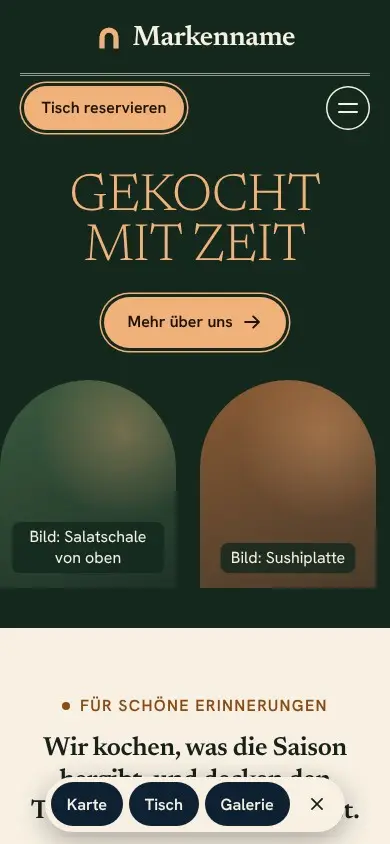
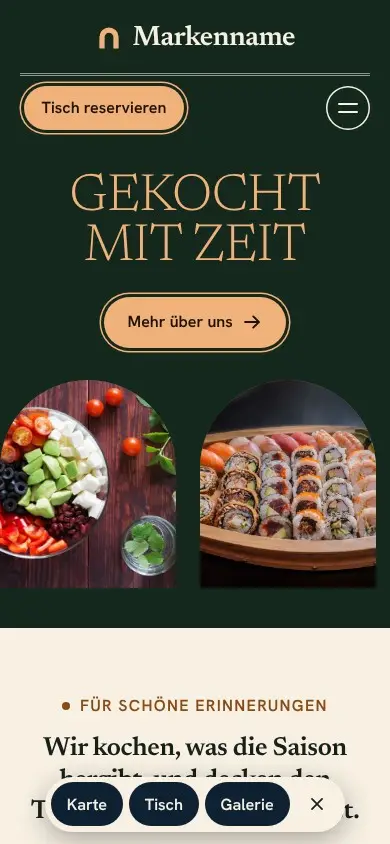
Bibliothek t34: Beispielfotos (Unsplash) eingebaut, Vorschaubilder neu erzeugt
Claude-Session: https://claude.ai/code/session_01DoGuL1bwF3ewggMgZ4Cpvd

Changed region(s): [[0.4923, 0.4313, 0.9846, 0.7085], [0.0, 0.4313, 0.4615, 0.7085]]

diff --git a/skills/webdesign-conversion/assets/vorlagen/bibliothek/t34/v2.html b/skills/webdesign-conversion/assets/vorlagen/bibliothek/t34/v2.html
@@ -56,7 +56,7 @@
 <main id="inhalt">
 <section class="held2" id="top" aria-labelledby="h-held">
   <div class="held2__bilder">
-    <div class="bild bogen bild--b" data-platzhalter="Bild: Gedeckter Tisch mit Karaffe" aria-hidden="true" data-parallax="0.05"></div>
+    <div class="bild bogen bild--b"><img src="bilder/gedeckter-tisch-mit-blumen.webp" width="1000" height="667" alt="Gedeckter Tisch mit Blumen und Gläsern" loading="lazy" decoding="async"></div>
     <div class="bild bogen bild--c" data-platzhalter="Bild: Frau lacht beim Essen" aria-hidden="true" data-parallax="0.09"></div>
   </div>
   <div class="wrap">
@@ -67,7 +67,7 @@
 
 <section class="ueber2 dunkel dunkel--blau" id="ueber" aria-labelledby="h-ueber">
   <div class="wrap ueber2__raster">
-    <div class="bild ueber2__bild bild--d" data-platzhalter="Bild: Langer Tisch mit Tellern und Servietten" aria-hidden="true" data-zeig="links"></div>
+    <div class="bild ueber2__bild bild--d" aria-hidden="true" data-zeig="links"><img src="bilder/lange-tafel-mit-kerzen.webp" width="1600" height="1067" alt="Lange Tafel mit Tellern, Servietten und Kerzen" loading="lazy" decoding="async"></div>
     <div>
       <h2 id="h-ueber" data-zeig>Ein Essen, an das du dich gern erinnerst</h2>
       <p data-zeig>Beispieltext von zwei Zeilen: Wir kochen mit Produkten aus der Region, nehmen uns Zeit für jeden Gang und sorgen dafür, dass du dich am Tisch wohlfühlst.</p>
@@ -88,12 +88,12 @@
       <a class="knopf knopf--dunkel" href="#karte" data-zeig>Ganze Karte <svg width="20" height="20" aria-hidden="true" focusable="false"><use href="#i-arrow-right"/></svg></a>
     </div>
     <ul class="liste2" data-staffel data-beispiel>
-      <li class="posten" data-zeig><div class="bild bild--a" data-platzhalter="Bild: Cocktail mit Orange" aria-hidden="true"></div><div><div class="posten__kopf"><h3>Italienischer Cocktail</h3><span class="posten__preis">8,50 €</span></div><p>alkoholfrei, mit Zitrus</p></div></li>
-      <li class="posten" data-zeig><div class="bild bild--b" data-platzhalter="Bild: Saftglas mit Früchten" aria-hidden="true"></div><div><div class="posten__kopf"><h3>Erdbeer-Orangen-Saft</h3><span class="posten__preis">5,50 €</span></div><p>frisch gepresst</p></div></li>
-      <li class="posten" data-zeig><div class="bild bild--c" data-platzhalter="Bild: Glas mit Gurke und Minze" aria-hidden="true"></div><div><div class="posten__kopf"><h3>Gurke und Kräuter</h3><span class="posten__preis">4,50 €</span></div><p>Detox-Getränk</p></div></li>
-      <li class="posten" data-zeig><div class="bild bild--d" data-platzhalter="Bild: Teller mit Hackbällchen" aria-hidden="true"></div><div><div class="posten__kopf"><h3>Hackbällchen in Sauce</h3><span class="posten__preis">14,50 €</span></div><p>mit Kartoffelstampf</p></div></li>
-      <li class="posten" data-zeig><div class="bild bild--e" data-platzhalter="Bild: Dessert mit Erdbeeren" aria-hidden="true"></div><div><div class="posten__kopf"><h3>Erdbeeren mit Sahne</h3><span class="posten__preis">7,00 €</span></div><p>im Glas, saisonal</p></div></li>
-      <li class="posten" data-zeig><div class="bild bild--f" data-platzhalter="Bild: Kuchenstück mit Schokolade" aria-hidden="true"></div><div><div class="posten__kopf"><h3>Schokoladenkuchen</h3><span class="posten__preis">7,50 €</span></div><p>warm, mit Eis</p></div></li>
+      <li class="posten" data-zeig><div class="bild bild--a"><img src="bilder/orangensaft-im-glas.webp" width="600" height="400" alt="Glas mit Orangensaft und Orangenscheibe" loading="lazy" decoding="async"></div><div><div class="posten__kopf"><h3>Italienischer Cocktail</h3><span class="posten__preis">8,50 €</span></div><p>alkoholfrei, mit Zitrus</p></div></li>
+      <li class="posten" data-zeig><div class="bild bild--b"><img src="bilder/orangensaft-auf-dem-tisch.webp" width="600" height="450" alt="Glas Orangensaft auf einem Holzuntersetzer" loading="lazy" decoding="async"></div><div><div class="posten__kopf"><h3>Erdbeer-Orangen-Saft</h3><span class="posten__preis">5,50 €</span></div><p>frisch gepresst</p></div></li>
+      <li class="posten" data-zeig><div class="bild bild--c"><img src="bilder/glas-mit-gurkenscheiben.webp" width="600" height="400" alt="Glas mit Gurkenscheiben und Wasser" loading="lazy" decoding="async"></div><div><div class="posten__kopf"><h3>Gurke und Kräuter</h3><span class="posten__preis">4,50 €</span></div><p>Detox-Getränk</p></div></li>
+      <li class="posten" data-zeig><div class="bild bild--d"><img src="bilder/haeckchen-mit-sauce.webp" width="600" height="400" alt="Gebratene Hackbällchen mit Sauce" loading="lazy" decoding="async"></div><div><div class="posten__kopf"><h3>Hackbällchen in Sauce</h3><span class="posten__preis">14,50 €</span></div><p>mit Kartoffelstampf</p></div></li>
+      <li class="posten" data-zeig><div class="bild bild--e"><img src="bilder/erdbeeren-mit-sahne.webp" width="600" height="400" alt="Erdbeeren mit Sahne auf einem Teller" loading="lazy" decoding="async"></div><div><div class="posten__kopf"><h3>Erdbeeren mit Sahne</h3><span class="posten__preis">7,00 €</span></div><p>im Glas, saisonal</p></div></li>
+      <li class="posten" data-zeig><div class="bild bild--f"><img src="bilder/schokoladenkuchen-stueck.webp" width="600" height="400" alt="Stück Schokoladenkuchen auf einem Teller" loading="lazy" decoding="async"></div><div><div class="posten__kopf"><h3>Schokoladenkuchen</h3><span class="posten__preis">7,50 €</span></div><p>warm, mit Eis</p></div></li>
     </ul>
   </div>
 </section>
@@ -108,7 +108,7 @@
         <p>Telefon: <a href="tel:+490000000000">+49 (0) 000 000 000</a></p>
         <p>Adresse: Beispielstraße 12, 12345 Beispielstadt</p>
       </div>
-      <div class="bild bogen feier__bild bild--d" data-platzhalter="Bild: Soße wird über Pasta gegossen" aria-hidden="true" data-zeig="skala"></div>
+      <div class="bild bogen feier__bild bild--d" aria-hidden="true" data-zeig="skala"><img src="bilder/pasta-auf-rotem-grund.webp" width="1000" height="667" alt="Pasta mit Basilikum auf einem weißen Teller" loading="lazy" decoding="async"></div>
       <div class="feier__spalte" data-zeig>
         <h3>Öffnungszeiten</h3>
         <p>Montag bis Samstag: 18 bis 23 Uhr</p>
@@ -125,10 +125,10 @@
     <h2 id="h-ver" data-zeig>Geplante Veranstaltungen</h2>
     <p class="veranstaltungen__text" data-zeig>Beispieltext von zwei Zeilen: Was in den nächsten Wochen bei dir im Haus stattfindet, steht hier mit Datum und Zeit.</p>
     <ul class="termine" data-staffel data-beispiel>
-      <li class="termin" data-zeig><div class="bild bild--a" data-platzhalter="Bild: Zwei Gläser stoßen an" aria-hidden="true"></div><h3>Weinabend am Mittwoch</h3><p>Mittwoch, 6. Dezember<br>Beginn 18 Uhr</p></li>
+      <li class="termin" data-zeig><div class="bild bild--a"><img src="bilder/anstossen-mit-rotwein.webp" width="800" height="533" alt="Gäste stoßen mit Rotwein an" loading="lazy" decoding="async"></div><h3>Weinabend am Mittwoch</h3><p>Mittwoch, 6. Dezember<br>Beginn 18 Uhr</p></li>
       <li class="termin" data-zeig><div class="bild bild--b" data-platzhalter="Bild: Frau fotografiert ihr Essen" aria-hidden="true"></div><h3>Erntefest</h3><p>Mittwoch, 10. Dezember<br>Samstag, 10 bis 14 Uhr</p></li>
       <li class="termin" data-zeig><div class="bild bild--c" data-platzhalter="Bild: Sängerin im Scheinwerferlicht" aria-hidden="true"></div><h3>Livemusik am Abend</h3><p>Sonntag, 17. Dezember<br>Beginn 19 Uhr</p></li>
-      <li class="termin" data-zeig><div class="bild bild--d" data-platzhalter="Bild: Tisch mit Salaten" aria-hidden="true"></div><h3>Themenessen</h3><p>Mittwoch, 20. Dezember<br>Beginn 20 Uhr</p></li>
+      <li class="termin" data-zeig><div class="bild bild--d"><img src="bilder/schalen-mit-salat-und-saucen.webp" width="1000" height="693" alt="Schalen mit Salat und Zutaten auf dem Tisch" loading="lazy" decoding="async"></div><h3>Themenessen</h3><p>Mittwoch, 20. Dezember<br>Beginn 20 Uhr</p></li>
     </ul>
     <div class="partner">
       <p data-zeig>Unsere Partner aus der Region <span data-beispiel>(Beispiellogos)</span></p>
@@ -152,10 +152,10 @@
       <p data-zeig><a class="knopf" href="#kontakt">Alle Beiträge <svg width="20" height="20" aria-hidden="true" focusable="false"><use href="#i-arrow-right"/></svg></a></p>
     </div>
     <ul class="beitraege" data-staffel>
-      <li class="beitrag" data-zeig><span class="beitrag__tag">Essen</span><div class="beitrag__kopf"><h3>Tipps für das nächste Lieblingsrestaurant</h3><a class="pfeil-rund" href="#kontakt" aria-label="Beitrag lesen: Tipps für das nächste Lieblingsrestaurant"><svg width="18" height="18" aria-hidden="true" focusable="false"><use href="#i-arrow-right"/></svg></a></div><div class="bild bogen bild--a" data-platzhalter="Bild: Schalen mit Tomaten und Bohnen" aria-hidden="true"></div></li>
-      <li class="beitrag" data-zeig><span class="beitrag__tag">Tipps</span><div class="beitrag__kopf"><h3>Rezepte, Bewertungen und Trends beim Essen</h3><a class="pfeil-rund" href="#kontakt" aria-label="Beitrag lesen: Rezepte, Bewertungen und Trends beim Essen"><svg width="18" height="18" aria-hidden="true" focusable="false"><use href="#i-arrow-right"/></svg></a></div><div class="bild bogen bild--b" data-platzhalter="Bild: Gastraum mit hellen Stühlen" aria-hidden="true"></div></li>
-      <li class="beitrag" data-zeig><span class="beitrag__tag">Küche</span><div class="beitrag__kopf"><h3>Warum ein frisches Gericht gesund ist</h3><a class="pfeil-rund" href="#kontakt" aria-label="Beitrag lesen: Warum ein frisches Gericht gesund ist"><svg width="18" height="18" aria-hidden="true" focusable="false"><use href="#i-arrow-right"/></svg></a></div><div class="bild bogen bild--c" data-platzhalter="Bild: Tortilla mit buntem Salat" aria-hidden="true"></div></li>
-      <li class="beitrag" data-zeig><span class="beitrag__tag">Feiern</span><div class="beitrag__kopf"><h3>Wie viel Essen braucht ein Fest pro Person?</h3><a class="pfeil-rund" href="#kontakt" aria-label="Beitrag lesen: Wie viel Essen braucht ein Fest pro Person?"><svg width="18" height="18" aria-hidden="true" focusable="false"><use href="#i-arrow-right"/></svg></a></div><div class="bild bogen bild--d" data-platzhalter="Bild: Gedeckte Tafel mit Blumen" aria-hidden="true"></div></li>
+      <li class="beitrag" data-zeig><span class="beitrag__tag">Essen</span><div class="beitrag__kopf"><h3>Tipps für das nächste Lieblingsrestaurant</h3><a class="pfeil-rund" href="#kontakt" aria-label="Beitrag lesen: Tipps für das nächste Lieblingsrestaurant"><svg width="18" height="18" aria-hidden="true" focusable="false"><use href="#i-arrow-right"/></svg></a></div><div class="bild bogen bild--a"><img src="bilder/schale-mit-bohnen.webp" width="800" height="533" alt="Holzschale mit Bohnen" loading="lazy" decoding="async"></div></li>
+      <li class="beitrag" data-zeig><span class="beitrag__tag">Tipps</span><div class="beitrag__kopf"><h3>Rezepte, Bewertungen und Trends beim Essen</h3><a class="pfeil-rund" href="#kontakt" aria-label="Beitrag lesen: Rezepte, Bewertungen und Trends beim Essen"><svg width="18" height="18" aria-hidden="true" focusable="false"><use href="#i-arrow-right"/></svg></a></div><div class="bild bogen bild--b"><img src="bilder/gastraum-mit-hellen-stuehlen.webp" width="800" height="533" alt="Gastraum mit runden Tischen und hellen Stühlen" loading="lazy" decoding="async"></div></li>
+      <li class="beitrag" data-zeig><span class="beitrag__tag">Küche</span><div class="beitrag__kopf"><h3>Warum ein frisches Gericht gesund ist</h3><a class="pfeil-rund" href="#kontakt" aria-label="Beitrag lesen: Warum ein frisches Gericht gesund ist"><svg width="18" height="18" aria-hidden="true" focusable="false"><use href="#i-arrow-right"/></svg></a></div><div class="bild bogen bild--c"><img src="bilder/salat-mit-gurke-und-tomate.webp" width="800" height="600" alt="Salat mit Gurke und Tomate" loading="lazy" decoding="async"></div></li>
+      <li class="beitrag" data-zeig><span class="beitrag__tag">Feiern</span><div class="beitrag__kopf"><h3>Wie viel Essen braucht ein Fest pro Person?</h3><a class="pfeil-rund" href="#kontakt" aria-label="Beitrag lesen: Wie viel Essen braucht ein Fest pro Person?"><svg width="18" height="18" aria-hidden="true" focusable="false"><use href="#i-arrow-right"/></svg></a></div><div class="bild bogen bild--d"><img src="bilder/tafel-mit-tulpen-und-glaesern.webp" width="800" height="533" alt="Festlich gedeckte Tafel mit Tulpen und Gläsern" loading="lazy" decoding="async"></div></li>
     </ul>
   </div>
 </section>
@@ -165,12 +165,12 @@
     <h2 id="h-insta" data-zeig>Folge uns</h2>
   </div>
   <ul class="insta__raster" data-staffel>
-    <li data-zeig><div class="bild bild--a" data-platzhalter="Bild: Kuchen mit Heidelbeeren" aria-hidden="true"></div></li>
-    <li data-zeig><div class="bild bild--b" data-platzhalter="Bild: Käse und Brot" aria-hidden="true"></div></li>
-    <li data-zeig><div class="bild bild--c" data-platzhalter="Bild: Gedeckter Teller" aria-hidden="true"></div></li>
-    <li data-zeig><div class="bild bild--d" data-platzhalter="Bild: Dessert im Glas" aria-hidden="true"></div></li>
-    <li data-zeig><div class="bild bild--e" data-platzhalter="Bild: Schmortopf mit Gemüse" aria-hidden="true"></div></li>
-    <li data-zeig><div class="bild bild--f" data-platzhalter="Bild: Glas mit Gurke" aria-hidden="true"></div></li>
+    <li data-zeig><div class="bild bild--a"><img src="bilder/beerentorte-auf-teller.webp" width="800" height="548" alt="Torte mit Erdbeeren und Heidelbeeren" loading="lazy" decoding="async"></div></li>
+    <li data-zeig><div class="bild bild--b"><img src="bilder/kaese-und-brot-platte.webp" width="800" height="532" alt="Käseplatte mit Brot" loading="lazy" decoding="async"></div></li>
+    <li data-zeig><div class="bild bild--c"><img src="bilder/gedeckter-teller-hell.webp" width="800" height="622" alt="Gedeckter Teller mit Besteck auf hellem Tisch" loading="lazy" decoding="async"></div></li>
+    <li data-zeig><div class="bild bild--d"><img src="bilder/dessert-im-glas-holz.webp" width="800" height="450" alt="Dessert mit Keksstücken im Glas" loading="lazy" decoding="async"></div></li>
+    <li data-zeig><div class="bild bild--e"><img src="bilder/frittierte-baellchen-in-schale.webp" width="800" height="533" alt="Frittierte Bällchen in einer Schale" loading="lazy" decoding="async"></div></li>
+    <li data-zeig><div class="bild bild--f"><img src="bilder/glas-mit-gurke-und-eis.webp" width="800" height="533" alt="Glas mit Gurke und Eis von oben" loading="lazy" decoding="async"></div></li>
   </ul>
 </section>
 </main>

diff --git a/skills/webdesign-conversion/assets/vorlagen/bibliothek/t34/index.html b/skills/webdesign-conversion/assets/vorlagen/bibliothek/t34/index.html
@@ -60,18 +60,18 @@
   </div>
   <div class="band bogenband" aria-label="Gerichte aus unserer Küche">
     <div class="band__spur">
-      <div class="bild bogen bild--a" data-platzhalter="Bild: Salatschale von oben" aria-hidden="true"></div>
-      <div class="bild bogen bild--b" data-platzhalter="Bild: Sushiplatte" aria-hidden="true"></div>
-      <div class="bild bogen bild--c" data-platzhalter="Bild: Pizza mit Kräutern" aria-hidden="true"></div>
-      <div class="bild bogen bild--d" data-platzhalter="Bild: Tarte mit Beeren" aria-hidden="true"></div>
-      <div class="bild bogen bild--e" data-platzhalter="Bild: Cocktail im Glas" aria-hidden="true"></div>
+      <div class="bild bogen bild--a"><img src="bilder/salat-holzschale-von-oben.webp" width="800" height="534" alt="Salat mit Tomaten, Avocado und Oliven in einer Schale auf dunklem Holz" loading="lazy" decoding="async"></div>
+      <div class="bild bogen bild--b"><img src="bilder/sushi-im-holzboot.webp" width="800" height="640" alt="Sushi in einem Holzboot" loading="lazy" decoding="async"></div>
+      <div class="bild bogen bild--c"><img src="bilder/pizza-mit-pilzen-und-basilikum.webp" width="800" height="534" alt="Pizza mit Pilzen und frischem Basilikum" loading="lazy" decoding="async"></div>
+      <div class="bild bogen bild--d"><img src="bilder/tartelettes-mit-beeren.webp" width="800" height="600" alt="Tartelettes mit frischen Beeren" loading="lazy" decoding="async"></div>
+      <div class="bild bogen bild--e"><img src="bilder/zwei-getraenke-im-glas.webp" width="800" height="600" alt="Zwei Getränke in Stielgläsern auf einem Marmortisch" loading="lazy" decoding="async"></div>
     </div>
     <div class="band__spur" aria-hidden="true">
-      <div class="bild bogen bild--a" data-platzhalter="Bild: Salatschale von oben" aria-hidden="true"></div>
-      <div class="bild bogen bild--b" data-platzhalter="Bild: Sushiplatte" aria-hidden="true"></div>
-      <div class="bild bogen bild--c" data-platzhalter="Bild: Pizza mit Kräutern" aria-hidden="true"></div>
-      <div class="bild bogen bild--d" data-platzhalter="Bild: Tarte mit Beeren" aria-hidden="true"></div>
-      <div class="bild bogen bild--e" data-platzhalter="Bild: Cocktail im Glas" aria-hidden="true"></div>
+      <div class="bild bogen bild--a" aria-hidden="true"><img src="bilder/salat-holzschale-von-oben.webp" width="800" height="534" alt="" loading="lazy" decoding="async"></div>
+      <div class="bild bogen bild--b" aria-hidden="true"><img src="bilder/sushi-im-holzboot.webp" width="800" height="640" alt="" loading="lazy" decoding="async"></div>
+      <div class="bild bogen bild--c" aria-hidden="true"><img src="bilder/pizza-mit-pilzen-und-basilikum.webp" width="800" height="534" alt="" loading="lazy" decoding="async"></div>
+      <div class="bild bogen bild--d" aria-hidden="true"><img src="bilder/tartelettes-mit-beeren.webp" width="800" height="600" alt="" loading="lazy" decoding="async"></div>
+      <div class="bild bogen bild--e" aria-hidden="true"><img src="bilder/zwei-getraenke-im-glas.webp" width="800" height="600" alt="" loading="lazy" decoding="async"></div>
     </div>
   </div>
 </section>
@@ -82,19 +82,19 @@
     <h2 id="h-ueber" data-zeig>Wir kochen, was die Saison hergibt, und decken den Tisch so, dass du gern bleibst.</h2>
     <div class="ueber__raster" data-staffel>
       <article class="vorteil" data-zeig>
-        <div class="bild bogen bild--b" data-platzhalter="Bild: Tisch mit Gläsern im Abendlicht" aria-hidden="true"></div>
+        <div class="bild bogen bild--b"><img src="bilder/tisch-mit-weinglaesern-abendlicht.webp" width="800" height="534" alt="Gedeckter Tisch mit Weingläsern und Kerzen im Abendlicht" loading="lazy" decoding="async"></div>
         <span class="vorteil__zeichen" aria-hidden="true"><svg width="34" height="34" aria-hidden="true" focusable="false"><use href="#i-coffee"/></svg></span>
         <h3>Feines Essen im Raum</h3>
         <p>Beispieltext von zwei Zeilen, der später durch einen echten Satz zum Haus ersetzt wird.</p>
       </article>
       <article class="vorteil" data-zeig>
-        <div class="bild bogen bild--c" data-platzhalter="Bild: Gedeckter Tisch mit Karaffe und Gläsern" aria-hidden="true"></div>
+        <div class="bild bogen bild--c"><img src="bilder/kerzenlicht-tisch-mit-wein.webp" width="800" height="538" alt="Zwei Gedecke mit Weingläsern und Kerzenlicht" loading="lazy" decoding="async"></div>
         <span class="vorteil__zeichen" aria-hidden="true"><svg width="34" height="34" aria-hidden="true" focusable="false"><use href="#i-heart"/></svg></span>
         <h3>Aromen, die bleiben</h3>
         <p>Beispieltext von zwei Zeilen, der später durch einen echten Satz zum Haus ersetzt wird.</p>
       </article>
       <article class="vorteil" data-zeig>
-        <div class="bild bogen bild--d" data-platzhalter="Bild: Paar am Tisch mit Wein" aria-hidden="true"></div>
+        <div class="bild bogen bild--d"><img src="bilder/haende-mit-weinglaesern.webp" width="800" height="534" alt="Hände halten Weingläser über dem Tisch" loading="lazy" decoding="async"></div>
         <span class="vorteil__zeichen" aria-hidden="true"><svg width="34" height="34" aria-hidden="true" focusable="false"><use href="#i-leaf"/></svg></span>
         <h3>Gäste, die sich Zeit nehmen</h3>
         <p>Beispieltext von zwei Zeilen, der später durch einen echten Satz zum Haus ersetzt wird.</p>
@@ -112,35 +112,35 @@
     <ul class="gerichte" data-staffel data-beispiel>
       <li class="gericht" data-zeig>
         <div class="gericht__kopf"><div><h3>Ofenfrisches Fladenbrot</h3><p class="gericht__preis">6,50 €</p></div><a class="pfeil-rund" href="#tisch" aria-label="Ofenfrisches Fladenbrot: dazu einen Tisch reservieren"><svg width="18" height="18" aria-hidden="true" focusable="false"><use href="#i-arrow-right"/></svg></a></div>
-        <div class="bild bogen bild--a" data-platzhalter="Bild: Fladenbrot mit Kräutern" aria-hidden="true"></div>
+        <div class="bild bogen bild--a"><img src="bilder/fladenbrot-mit-zitrone.webp" width="800" height="534" alt="Fladenbrot mit Zitronenscheiben und Kräutern" loading="lazy" decoding="async"></div>
       </li>
       <li class="gericht" data-zeig>
         <div class="gericht__kopf"><div><h3>Bunter Linsensalat</h3><p class="gericht__preis">12,00 €</p></div><a class="pfeil-rund" href="#tisch" aria-label="Bunter Linsensalat: dazu einen Tisch reservieren"><svg width="18" height="18" aria-hidden="true" focusable="false"><use href="#i-arrow-right"/></svg></a></div>
-        <div class="bild bogen bild--b" data-platzhalter="Bild: Linsensalat in der Schale" aria-hidden="true"></div>
+        <div class="bild bogen bild--b"><img src="bilder/schale-mit-linsen-und-gemuese.webp" width="800" height="534" alt="Schale mit Salat aus Kichererbsen und Gemüse" loading="lazy" decoding="async"></div>
       </li>
       <li class="gericht" data-zeig>
         <div class="gericht__kopf"><div><h3>Pasta der Woche</h3><p class="gericht__preis">14,50 €</p></div><a class="pfeil-rund" href="#tisch" aria-label="Pasta der Woche: dazu einen Tisch reservieren"><svg width="18" height="18" aria-hidden="true" focusable="false"><use href="#i-arrow-right"/></svg></a></div>
-        <div class="bild bogen bild--c" data-platzhalter="Bild: Pasta mit Gemüse" aria-hidden="true"></div>
+        <div class="bild bogen bild--c"><img src="bilder/pasta-mit-oliven-und-tomaten.webp" width="800" height="534" alt="Pasta mit Oliven und Tomatensauce auf einem weißen Teller" loading="lazy" decoding="async"></div>
       </li>
       <li class="gericht" data-zeig>
         <div class="gericht__kopf"><div><h3>Gemüsepfanne aus dem Ofen</h3><p class="gericht__preis">13,00 €</p></div><a class="pfeil-rund" href="#tisch" aria-label="Gemüsepfanne aus dem Ofen: dazu einen Tisch reservieren"><svg width="18" height="18" aria-hidden="true" focusable="false"><use href="#i-arrow-right"/></svg></a></div>
-        <div class="bild bogen bild--d" data-platzhalter="Bild: Ofengemüse auf dem Blech" aria-hidden="true"></div>
+        <div class="bild bogen bild--d"><img src="bilder/ofenkuerbis-auf-dem-blech.webp" width="800" height="450" alt="Im Ofen gebackener Kürbis auf dem Blech" loading="lazy" decoding="async"></div>
       </li>
       <li class="gericht" data-zeig>
         <div class="gericht__kopf"><div><h3>Hausgemachte Quiche</h3><p class="gericht__preis">9,50 €</p></div><a class="pfeil-rund" href="#tisch" aria-label="Hausgemachte Quiche: dazu einen Tisch reservieren"><svg width="18" height="18" aria-hidden="true" focusable="false"><use href="#i-arrow-right"/></svg></a></div>
-        <div class="bild bogen bild--e" data-platzhalter="Bild: Quiche mit Salat" aria-hidden="true"></div>
+        <div class="bild bogen bild--e"><img src="bilder/salat-in-der-holzschale.webp" width="800" height="600" alt="Bunter Salat in einer Holzschale" loading="lazy" decoding="async"></div>
       </li>
       <li class="gericht" data-zeig>
         <div class="gericht__kopf"><div><h3>Gebratener Lachs</h3><p class="gericht__preis">19,00 €</p></div><a class="pfeil-rund" href="#tisch" aria-label="Gebratener Lachs: dazu einen Tisch reservieren"><svg width="18" height="18" aria-hidden="true" focusable="false"><use href="#i-arrow-right"/></svg></a></div>
-        <div class="bild bogen bild--f" data-platzhalter="Bild: Lachs mit Kräutern" aria-hidden="true"></div>
+        <div class="bild bogen bild--f"><img src="bilder/lachs-auf-dem-teller.webp" width="800" height="534" alt="Gebratener Lachs mit Beilage auf einem weißen Teller" loading="lazy" decoding="async"></div>
       </li>
       <li class="gericht" data-zeig>
         <div class="gericht__kopf"><div><h3>Kürbissuppe mit Kernen</h3><p class="gericht__preis">8,50 €</p></div><a class="pfeil-rund" href="#tisch" aria-label="Kürbissuppe mit Kernen: dazu einen Tisch reservieren"><svg width="18" height="18" aria-hidden="true" focusable="false"><use href="#i-arrow-right"/></svg></a></div>
-        <div class="bild bogen bild--a" data-platzhalter="Bild: Suppe in der Schale" aria-hidden="true"></div>
+        <div class="bild bogen bild--a"><img src="bilder/kuerbissuppe-in-der-schale.webp" width="800" height="506" alt="Kürbissuppe in einer Schale auf einem Holztisch" loading="lazy" decoding="async"></div>
       </li>
       <li class="gericht" data-zeig>
         <div class="gericht__kopf"><div><h3>Beerentarte vom Blech</h3><p class="gericht__preis">6,00 €</p></div><a class="pfeil-rund" href="#tisch" aria-label="Beerentarte vom Blech: dazu einen Tisch reservieren"><svg width="18" height="18" aria-hidden="true" focusable="false"><use href="#i-arrow-right"/></svg></a></div>
-        <div class="bild bogen bild--b" data-platzhalter="Bild: Tarte mit Beeren" aria-hidden="true"></div>
+        <div class="bild bogen bild--b"><img src="bilder/beerentarte-in-der-vitrine.webp" width="800" height="450" alt="Beerentartes in der Vitrine" loading="lazy" decoding="async"></div>
       </li>
     </ul>
   </div>
@@ -162,7 +162,7 @@
           <p class="formular__meldung" data-formular-meldung role="status" hidden>Beispielformular: In dieser Vorlage wird nichts gesendet. Der Versand wird im Projekt angebunden.</p>
         </form>
       </div>
-      <div class="bild bogen tisch__bild bild--d" data-platzhalter="Bild: Olivenöl über einer Pizza, Hand mit Kännchen" role="img" aria-label="Platzhalter für ein Foto: Olivenöl über einer Pizza, Hand mit Kännchen" data-zeig="skala"></div>
+      <div class="bild bogen tisch__bild bild--d" data-zeig="skala"><img src="bilder/olivenoel-kraeuter-marmor.webp" width="800" height="534" alt="Olivenöl und frische Kräuter auf einer Marmorplatte" loading="lazy" decoding="async" style="object-position:30% center"></div>
       <div class="zeiten" data-zeig data-beispiel>
         <div><h3>Öffnungszeiten</h3><p>Mo bis Do: 10 bis 21 Uhr<br>Fr bis So: 9 bis 23 Uhr</p></div>
         <div><h3>So findest du uns</h3><p>Beispielstraße 12<br>12345 Beispielstadt</p></div>
@@ -176,11 +176,11 @@
   <h2 id="h-galerie" data-zeig>Unsere Galerie</h2>
   <div class="spur-gruppe" data-spur-gruppe>
     <div class="spur" data-spur tabindex="0" role="group" aria-label="Bilder aus dem Haus, horizontal wischbar">
-      <div class="bild bild--a" data-platzhalter="Bild: Cocktail und Teller auf Holz" aria-hidden="true"></div>
-      <div class="bild bild--b" data-platzhalter="Bild: Paar im Gespräch am Tisch" aria-hidden="true"></div>
-      <div class="bild bild--c" data-platzhalter="Bild: Käse und Brot auf Kisten" aria-hidden="true"></div>
-      <div class="bild bild--d" data-platzhalter="Bild: Dessert im Glas" aria-hidden="true"></div>
-      <div class="bild bild--e" data-platzhalter="Bild: Schale mit Gemüse" aria-hidden="true"></div>
+      <div class="bild bild--a"><img src="bilder/cocktail-an-der-bar.webp" width="800" height="533" alt="Cocktailglas auf dem Tresen einer Bar" loading="lazy" decoding="async"></div>
+      <div class="bild bild--b"><img src="bilder/anstossen-mit-bierglaesern.webp" width="800" height="532" alt="Gläser stoßen am Tisch aneinander" loading="lazy" decoding="async"></div>
+      <div class="bild bild--c"><img src="bilder/kaese-und-brot-auf-holzbrett.webp" width="800" height="533" alt="Käse und Brot auf einem Holzbrett" loading="lazy" decoding="async"></div>
+      <div class="bild bild--d"><img src="bilder/dessert-im-glas-dunkel.webp" width="800" height="531" alt="Dessert im Glas auf dunklem Untergrund" loading="lazy" decoding="async"></div>
+      <div class="bild bild--e"><img src="bilder/tomaten-und-gurken-in-holzschale.webp" width="800" height="534" alt="Tomaten und Gurken in einer Holzschale" loading="lazy" decoding="async"></div>
     </div>
     <div class="spur-steuerung" data-spur-steuerung>
       <button class="pfeil-rund" type="button" data-spur-knopf="zurueck" aria-label="Vorheriges Bild"><svg width="18" height="18" aria-hidden="true" focusable="false"><use href="#i-arrow-left"/></svg></button>
@@ -205,7 +205,7 @@
       </div>
     </div>
     <div class="stimmen__bilder" data-zeig="skala">
-      <div class="bild bild--b" data-platzhalter="Bild: Sushi in der Schale mit Sojasauce" aria-hidden="true"></div>
+      <div class="bild bild--b"><img src="bilder/poke-bowl-mit-lachs.webp" width="800" height="534" alt="Bowl mit Lachs, Gemüse und Sojasauce" loading="lazy" decoding="async"></div>
       <div class="bild bild--c" data-platzhalter="Bild: Frau lacht beim Essen" aria-hidden="true"></div>
     </div>
   </div>

diff --git a/skills/webdesign-conversion/assets/vorlagen/bibliothek/t34/BILDER.md b/skills/webdesign-conversion/assets/vorlagen/bibliothek/t34/BILDER.md
@@ -1,0 +1,62 @@
+# Bilder t34
+
+Alle Fotos von Unsplash, abgerufen am 25.11.2026. Titel und Lizenz stehen so auf der Seite des Fotos (Titel von Unsplash automatisch vergeben), als Fotograf ist das Unsplash Profil angegeben, weil die Seite den Namen nur als Profillink zeigte. Lizenz ist jeweils die Unsplash Lizenz.
+
+| Datei | Platz | Foto Titel | Fotograf (Profil) | Seite | Lizenz | Abruf |
+|---|---|---|---|---|---|---|
+| salat-holzschale-von-oben.webp | Bogenband, Salat | eine mit Gemüse und Obst gefüllte Schüssel auf einem Holztisch | @foodistika | https://unsplash.com/photos/VOk0aJa3CdA | Unsplash Lizenz | 25.11.2026 |
+| schalen-mit-salat-und-saucen.webp | v2 Tisch mit Salaten | in Scheiben geschnittene Gurken und Karotten in weißer Keramikschale | @yakshiiv | https://unsplash.com/photos/EvNPnUQ1Ino | Unsplash Lizenz | 25.11.2026 |
+| sushi-im-holzboot.webp | Bogenband, Sushi | Foodfotografie von verschiedenen Sushies | @deram31 | https://unsplash.com/photos/O2yNzXdqOu0 | Unsplash Lizenz | 25.11.2026 |
+| pizza-mit-pilzen-und-basilikum.webp | Bogenband, Pizza | Selektiver Fokus Fotografie Pilz Pizza | @laviperchik | https://unsplash.com/photos/wS-5JFH8-oU | Unsplash Lizenz | 25.11.2026 |
+| tartelettes-mit-beeren.webp | Bogenband, Beerentarte | Beerenkuchen Lot | @siamialtrice_ | https://unsplash.com/photos/cMhAZqjfE2w | Unsplash Lizenz | 25.11.2026 |
+| zwei-getraenke-im-glas.webp | Bogenband, Getränk | ein paar Gläser mit bunten Getränken | @50m_above | https://unsplash.com/photos/tx3IPi7952Q | Unsplash Lizenz | 25.11.2026 |
+| tisch-mit-weinglaesern-abendlicht.webp | Über uns, Bild 1 | Ein Esstisch mit Weingläsern und Tellern mit Speisen | @lisaanna195 | https://unsplash.com/photos/KUfmgYOJius | Unsplash Lizenz | 25.11.2026 |
+| kerzenlicht-tisch-mit-wein.webp | Über uns, Bild 2 | Drei Teller, zwei Weingläser und eine Flasche Wein auf dem Tisch | @cakvari | https://unsplash.com/photos/nVIXh7y9Fj4 | Unsplash Lizenz | 25.11.2026 |
+| haende-mit-weinglaesern.webp | Über uns, Bild 3 (Hände, kein Paar) | Ein paar Leute, die sich bei einem Glas Wein an den Händen halten | @tuncerdogu | https://unsplash.com/photos/ANVqQsTaVt8 | Unsplash Lizenz | 25.11.2026 |
+| fladenbrot-mit-zitrone.webp | Karte, Fladenbrot | Schwarzbrot mit Zitronenscheiben auf schwarzer Oberfläche | @twistsandzests | https://unsplash.com/photos/kzk5WrJlxds | Unsplash Lizenz | 25.11.2026 |
+| schale-mit-linsen-und-gemuese.webp | Karte, Linsensalat | Eine Schüssel mit Essen und einem Löffel darin | @glorialiucreative | https://unsplash.com/photos/tjL5vFb12qE | Unsplash Lizenz | 25.11.2026 |
+| pasta-mit-oliven-und-tomaten.webp | Karte, Pasta | Nudelschale auf weißem Keramikteller | @abhishek_hajare | https://unsplash.com/photos/_3dTLrMwiW8 | Unsplash Lizenz | 25.11.2026 |
+| ofenkuerbis-auf-dem-blech.webp | Karte, Ofengemüse | orange und schwarz geschnittene Früchte | @hjkp | https://unsplash.com/photos/nKjo8bOd6Es | Unsplash Lizenz | 25.11.2026 |
+| salat-in-der-holzschale.webp | Karte, Quiche (Salat statt Quiche) | ein Salat in einer Holzschüssel auf einem Tisch | @nutelie | https://unsplash.com/photos/emxFTjEvpKQ | Unsplash Lizenz | 25.11.2026 |
+| lachs-auf-dem-teller.webp | Karte, Lachs | geschnittenes Brot auf weißem Keramikteller | @sebastiancoman | https://unsplash.com/photos/Co-T6odt0es | Unsplash Lizenz | 25.11.2026 |
+| kuerbissuppe-in-der-schale.webp | Karte, Suppe | eine Schüssel Suppe auf einem Holztisch | @reskp | https://unsplash.com/photos/NzAZEE23_-Q | Unsplash Lizenz | 25.11.2026 |
+| beerentarte-in-der-vitrine.webp | Karte, Beerentarte | Gebäck in der Vitrine | @foxfox | https://unsplash.com/photos/o9kswzHrvMs | Unsplash Lizenz | 25.11.2026 |
+| olivenoel-kraeuter-marmor.webp | Tisch reservieren | Flat-Lay-Fotografie von Gewürzen auf dem Tisch | @joannakosinska | https://unsplash.com/photos/i0IvwAhhGZM | Unsplash Lizenz | 25.11.2026 |
+| cocktail-an-der-bar.webp | Galerie 1 | klares Weinglas auf dem Tisch | @krutota | https://unsplash.com/photos/EX8UtPjOFhY | Unsplash Lizenz | 25.11.2026 |
+| anstossen-mit-bierglaesern.webp | Galerie 2 | Menschen mit Snifter-Brille | @yutacar | https://unsplash.com/photos/JKMnm3CIncw | Unsplash Lizenz | 25.11.2026 |
+| kaese-und-brot-auf-holzbrett.webp | Galerie 3 | Käse- und Brotplatte mit Obst und Dip | @gk3000 | https://unsplash.com/photos/0fijwbD8aeo | Unsplash Lizenz | 25.11.2026 |
+| dessert-im-glas-dunkel.webp | Galerie 4 | weißes und braunes Eis auf schwarzem Tisch | @staycem | https://unsplash.com/photos/9_JzprubLOs | Unsplash Lizenz | 25.11.2026 |
+| tomaten-und-gurken-in-holzschale.webp | Galerie 5 | Tomaten und Gurken sitzen in einer Holzschüssel | @deliberatedirections | https://unsplash.com/photos/znyiiCqf6kc | Unsplash Lizenz | 25.11.2026 |
+| poke-bowl-mit-lachs.webp | Stimmen, Bild 1 | Frische Lachs-Poke-Bowl mit verschiedenen Zutaten | @sergiomenamx | https://unsplash.com/photos/Mwtmk37_0S4 | Unsplash Lizenz | 25.11.2026 |
+| gedeckter-tisch-mit-blumen.webp | v2 Held, Bild 1 | Ein dekorierter Tisch mit einer brennenden Kerze | @trfotografi | https://unsplash.com/photos/NPg5_iVZQ2s | Unsplash Lizenz | 25.11.2026 |
+| lange-tafel-mit-kerzen.webp | v2 Zweiteiler | Ein langer Esstisch mit weißen Tellern | @nadiavalko | https://unsplash.com/photos/0hAdietsUrE | Unsplash Lizenz | 25.11.2026 |
+| orangensaft-im-glas.webp | v2 Karte, Cocktail | ein Glas Orangensaft mit einer Orangenscheibe am Rand | @anetvob | https://unsplash.com/photos/gEkTo1Oi78A | Unsplash Lizenz | 25.11.2026 |
+| orangensaft-auf-dem-tisch.webp | v2 Karte, Saft | Ein Glas Orangensaft auf einem Tisch | @enginakyurt | https://unsplash.com/photos/UD_vMY14OUE | Unsplash Lizenz | 25.11.2026 |
+| glas-mit-gurkenscheiben.webp | v2 Karte, Gurkenwasser | Grünes Gemüse auf Klarglasbehälter | @alightproduction_by_sabrinawendl | https://unsplash.com/photos/vUN6zmQoNc0 | Unsplash Lizenz | 25.11.2026 |
+| haeckchen-mit-sauce.webp | v2 Karte, Hackbällchen | gebratenes Fleisch auf weißem Keramikteller | @0xk | https://unsplash.com/photos/CVNN8ZsNhB4 | Unsplash Lizenz | 25.11.2026 |
+| erdbeeren-mit-sahne.webp | v2 Karte, Dessert | eine Schüssel Schlagsahne und Erdbeeren auf einem Teller | @nataliaraylenegusakova | https://unsplash.com/photos/uzjs9GRK32c | Unsplash Lizenz | 25.11.2026 |
+| schokoladenkuchen-stueck.webp | v2 Karte, Kuchen | ein Stück Schokoladenkuchen auf einem weißen Teller | @le_y0u | https://unsplash.com/photos/r6T3KBdlGH4 | Unsplash Lizenz | 25.11.2026 |
+| pasta-auf-rotem-grund.webp | v2 Feiern, Pasta | Nudelschale auf weißem Keramikteller | @heydivani | https://unsplash.com/photos/_bWwT4wAOmM | Unsplash Lizenz | 25.11.2026 |
+| anstossen-mit-rotwein.webp | v2 Veranstaltungen, Anstoßen | Menschen, die ihre klaren Weingläser werfen | @kelsoknight | https://unsplash.com/photos/udj2tD3WKsY | Unsplash Lizenz | 25.11.2026 |
+| schale-mit-bohnen.webp | v2 Blog 1 | verschiedene Kieselsteine | @milada_vigerova | https://unsplash.com/photos/FW7Amhh_B8A | Unsplash Lizenz | 25.11.2026 |
+| gastraum-mit-hellen-stuehlen.webp | v2 Blog 2 | ein Restaurant mit Tischen und Stühlen mit Schrift an den Wänden | @toreland | https://unsplash.com/photos/MQGzNX0qP5Q | Unsplash Lizenz | 25.11.2026 |
+| salat-mit-gurke-und-tomate.webp | v2 Blog 3 | Ein Teller mit Essen, das auf einem Tisch steht | @alex44224 | https://unsplash.com/photos/vVkkCIZGs8o | Unsplash Lizenz | 25.11.2026 |
+| tafel-mit-tulpen-und-glaesern.webp | v2 Blog 4 | Rote Rose in Klarglasvase | @genefoto | https://unsplash.com/photos/rBt6OS_1xoI | Unsplash Lizenz | 25.11.2026 |
+| beerentorte-auf-teller.webp | v2 Instagram 1 | Erdbeer- und Heidelbeerkuchen auf weißem Keramikteller | @davidholifield | https://unsplash.com/photos/XUFKd-5jC64 | Unsplash Lizenz | 25.11.2026 |
+| kaese-und-brot-platte.webp | v2 Instagram 2 | Schnittkäse auf braunem Holzschneidebrett | @taylormadeglobal | https://unsplash.com/photos/_L5MGd0w1FQ | Unsplash Lizenz | 25.11.2026 |
+| gedeckter-teller-hell.webp | v2 Instagram 3 | weiße Keramikplatte neben Edelstahlgabel und Brotmesser auf weißem Tisch | @sewellkare12 | https://unsplash.com/photos/yLfsEMVbOWA | Unsplash Lizenz | 25.11.2026 |
+| dessert-im-glas-holz.webp | v2 Instagram 4 | ein Glas Eis und Kekse auf einem Holztisch | @captntartine | https://unsplash.com/photos/DUfcyQIDjdk | Unsplash Lizenz | 25.11.2026 |
+| frittierte-baellchen-in-schale.webp | v2 Instagram 5 | frittiertes Essen auf schwarzem Keramikteller | @mintsrecipes | https://unsplash.com/photos/zPZ3n-2DwHo | Unsplash Lizenz | 25.11.2026 |
+| glas-mit-gurke-und-eis.webp | v2 Instagram 6 | Klarglasflasche mit Wasser | @mariushaak | https://unsplash.com/photos/nZ1T7HVIHzk | Unsplash Lizenz | 25.11.2026 |
+
+## Hinweise
+
+* Gewichtsgrenze: index.html liegt bei 1,4 MB (Karten auf 800 Pixel Breite und Qualität 70 verkleinert).
+* Titel von Unsplash sind teils unpassend (zum Beispiel Kieselsteine für Bohnen), die Alt Texte beschreiben, was im Bild zu sehen ist.
+* Das Foto für Quiche zeigt einen Salat, für Fladen und Tortilla gab es keinen passenden Treffer; die Beschriftungen im Text müssen vor Abgabe zum Bild passen.
+* Das Bogenband ist doppelt gesetzt, die zweite Spur trägt alt leer.
+* Alle Bilder sind Beispielfotos und vor Abgabe zu ersetzen.
+
+## Offen
+
+* Porträts Team (index, vier Plätze), Frau lacht beim Essen (index Stimmen, v2 Held), Frau fotografiert ihr Essen und Sängerin (v2 Veranstaltungen): bewusst offen, keine echten Personen als Gäste oder Team.
